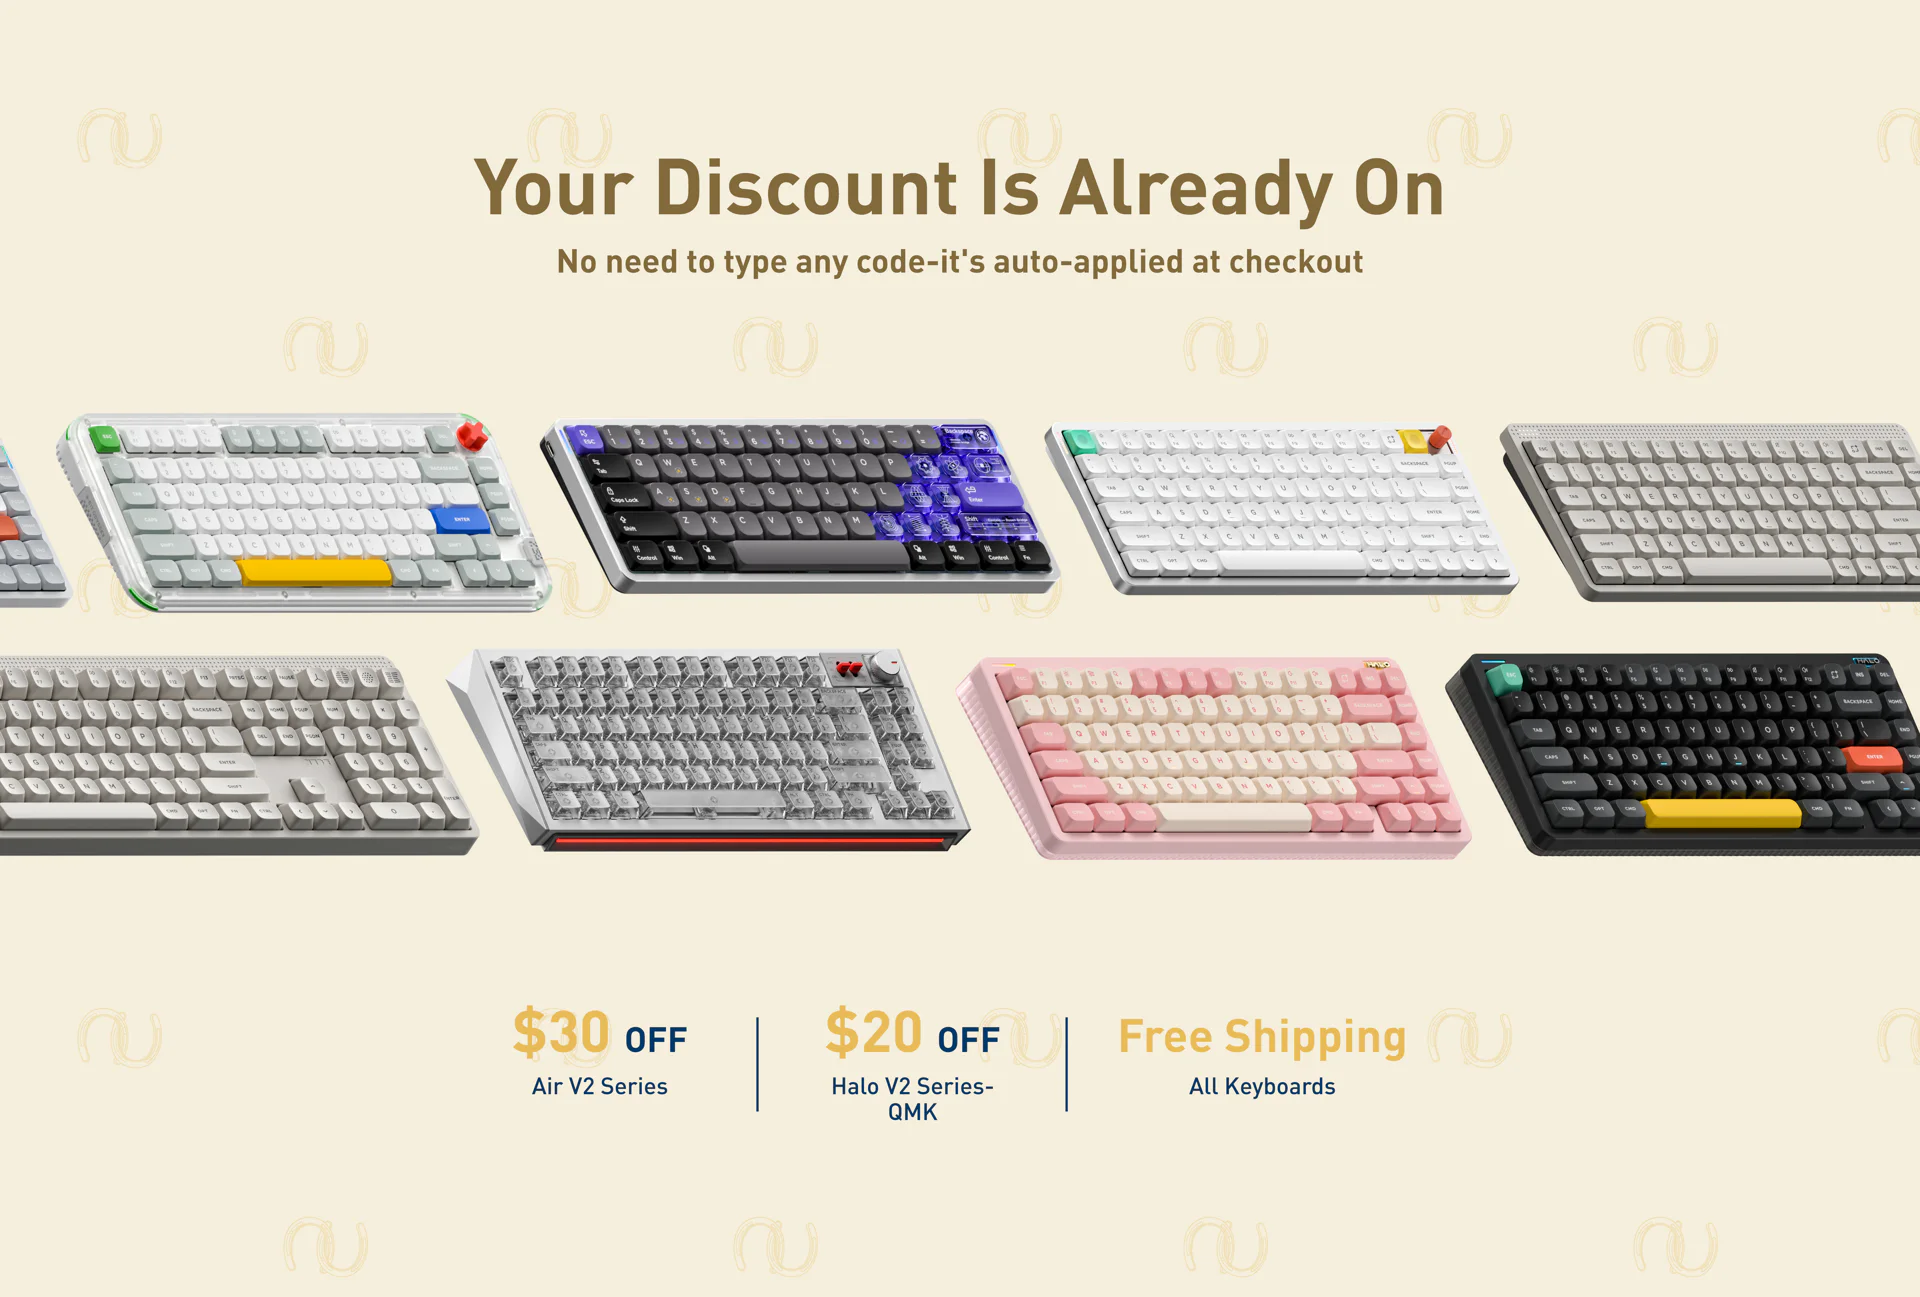
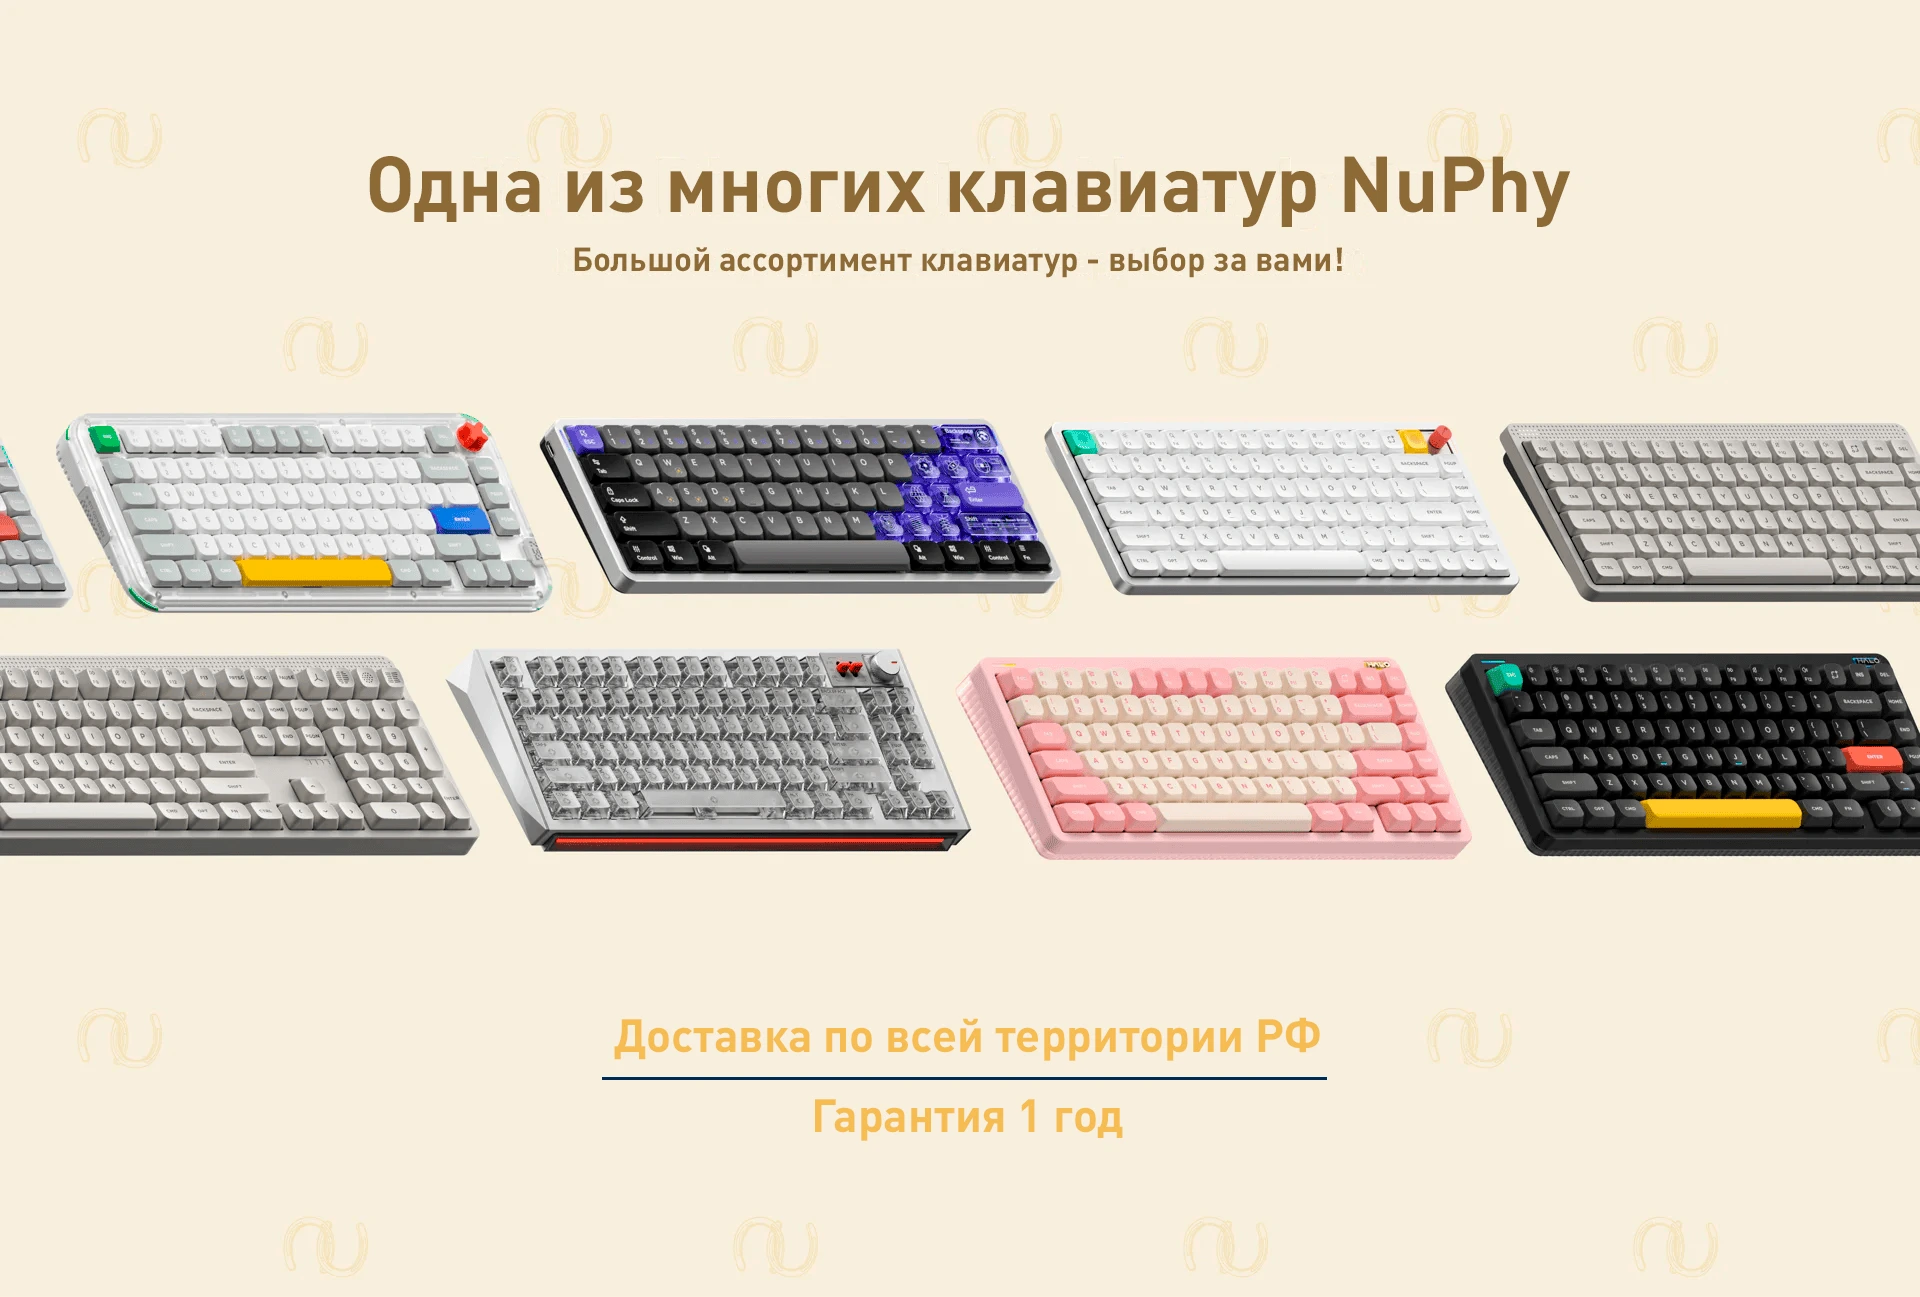
feat: images translated

diff --git a/kick75.html b/kick75.html
@@ -454,7 +454,7 @@
                             <div class="audio__header"><span>Red nano</span>
                                 <img class="audio__icon" src="images/pages/kick75/content/icon.svg" src="Audio">
                             </div>
-                            <span class="audio__subheader">45gf Linear</span>
+                            <span class="audio__subheader">Линейный 45 гс</span>
                             <div class="audio__keycap-image">
                                 <img class="audio__keycap-img" src="images/pages/kick75/content/audio-01.webp"
                                     alt="Изображение кейкапа">
@@ -472,7 +472,7 @@
                             <div class="audio__header"><span>Brown nano</span>
                                 <img class="audio__icon" src="images/pages/kick75/content/icon.svg" src="Audio">
                             </div>
-                            <span class="audio__subheader">50gf Tactile</span>
+                            <span class="audio__subheader">Тактильный 50 гс</span>
                             <div class="audio__keycap-image">
                                 <img class="audio__keycap-img" src="images/pages/kick75/content/audio-02.webp"
                                     alt="Изображение кейкапа">
@@ -490,7 +490,7 @@
                             <div class="audio__header"><span>Silver nano</span>
                                 <img class="audio__icon" src="images/pages/kick75/content/icon.svg" src="Audio">
                             </div>
-                            <span class="audio__subheader">37gf Linear</span>
+                            <span class="audio__subheader">Линейный 37 гс</span>
                             <div class="audio__keycap-image">
                                 <img class="audio__keycap-img" src="images/pages/kick75/content/audio-03.webp"
                                     alt="Изображение кейкапа">
@@ -508,7 +508,7 @@
                             <div class="audio__header"><span>Blush nano</span>
                                 <img class="audio__icon" src="images/pages/kick75/content/icon.svg" src="Audio">
                             </div>
-                            <span class="audio__subheader">42gf Linear</span>
+                            <span class="audio__subheader">Линейный 42 гс</span>
                             <div class="audio__keycap-image">
                                 <img class="audio__keycap-img" src="images/pages/kick75/content/audio-04.webp"
                                     alt="Изображение кейкапа">
@@ -526,7 +526,7 @@
                             <div class="audio__header"><span>Red Max</span>
                                 <img class="audio__icon" src="images/pages/kick75/content/icon.svg" src="Audio">
                             </div>
-                            <span class="audio__subheader">45gf Linear</span>
+                            <span class="audio__subheader">Линейный 45 гс</span>
                             <div class="audio__keycap-image">
                                 <img class="audio__keycap-img" src="images/pages/kick75/content/audio-05.webp"
                                     alt="Изображение кейкапа">
@@ -544,7 +544,7 @@
                             <div class="audio__header"><span>Brown Max</span>
                                 <img class="audio__icon" src="images/pages/kick75/content/icon.svg" src="Audio">
                             </div>
-                            <span class="audio__subheader">50gf Tactile</span>
+                            <span class="audio__subheader">Тактильный 50 гс</span>
                             <div class="audio__keycap-image">
                                 <img class="audio__keycap-img" src="images/pages/kick75/content/audio-06.webp"
                                     alt="Изображение кейкапа">
@@ -562,7 +562,7 @@
                             <div class="audio__header"><span>Silver Max</span>
                                 <img class="audio__icon" src="images/pages/kick75/content/icon.svg" src="Audio">
                             </div>
-                            <span class="audio__subheader">37gf Linear</span>
+                            <span class="audio__subheader">Линейный 37 гс</span>
                             <div class="audio__keycap-image">
                                 <img class="audio__keycap-img" src="images/pages/kick75/content/audio-07.webp"
                                     alt="Изображение кейкапа">
@@ -580,7 +580,7 @@
                             <div class="audio__header"><span>Blush Max</span>
                                 <img class="audio__icon" src="images/pages/kick75/content/icon.svg" src="Audio">
                             </div>
-                            <span class="audio__subheader">42gf Linear</span>
+                            <span class="audio__subheader">Линейный 42 гс</span>
                             <div class="audio__keycap-image">
                                 <img class="audio__keycap-img" src="images/pages/kick75/content/audio-08.webp"
                                     alt="Изображение кейкапа">
@@ -1180,19 +1180,19 @@
                 <section>
                     <h2 class="section-title-page mt-80">Свитчи</h2>
                     <div class="switch-cards mt-40">
-                        <img class="switch-cards__card" src="images/pages/kick75/content/switch-01.png"
+                        <img class="switch-cards__card" src="images/pages/kick75/content/switch-01.webp"
                             alt="Свитч Red nano">
-                        <img class="switch-cards__card" src="images/pages/kick75/content/switch-02.png"
+                        <img class="switch-cards__card" src="images/pages/kick75/content/switch-02.webp"
                             alt="Свитч Brown nano">
-                        <img class="switch-cards__card" src="images/pages/kick75/content/switch-03.png"
+                        <img class="switch-cards__card" src="images/pages/kick75/content/switch-03.webp"
                             alt="Свитч Silver nano">
-                        <img class="switch-cards__card" src="images/pages/kick75/content/switch-04.png"
+                        <img class="switch-cards__card" src="images/pages/kick75/content/switch-04.webp"
                             alt="Свитч Blush nano">
-                        <img class="switch-cards__card" src="images/pages/kick75/content/switch-05.png"
+                        <img class="switch-cards__card" src="images/pages/kick75/content/switch-05.webp"
                             alt="Свитч Red Max">
-                        <img class="switch-cards__card" src="images/pages/kick75/content/switch-06.png"
+                        <img class="switch-cards__card" src="images/pages/kick75/content/switch-06.webp"
                             alt="Свитч Brown Max">
-                        <img class="switch-cards__card" src="images/pages/kick75/content/switch-07.png"
+                        <img class="switch-cards__card" src="images/pages/kick75/content/switch-07.webp"
                             alt="Свитч Silver Max">
                         <img class="switch-cards__card" src="images/pages/kick75/content/switch-08.webp"
                             alt="Свитч Blush Max">
